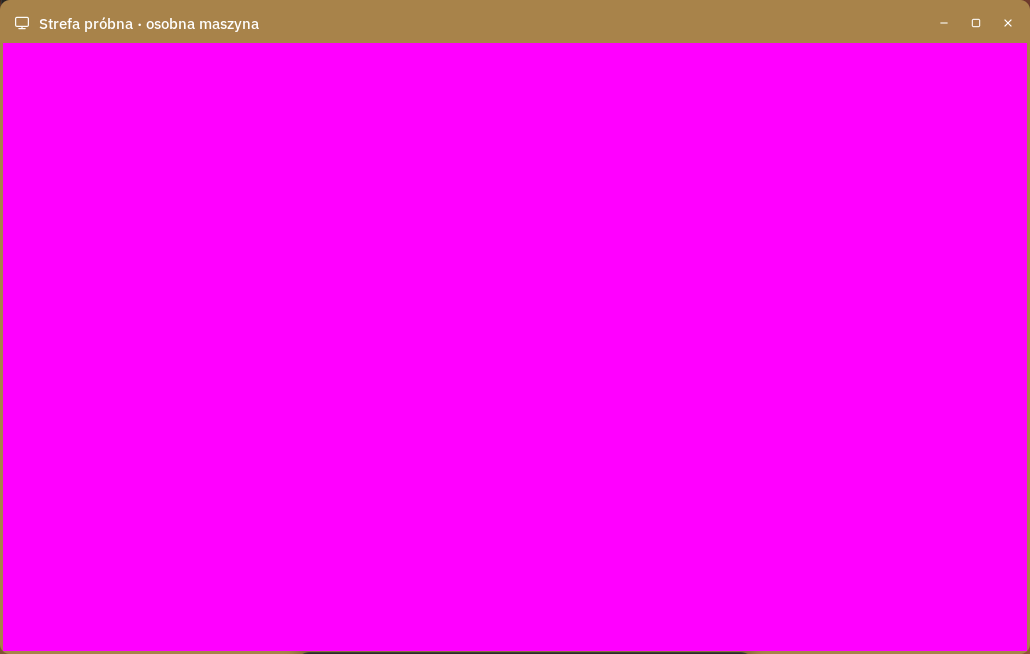
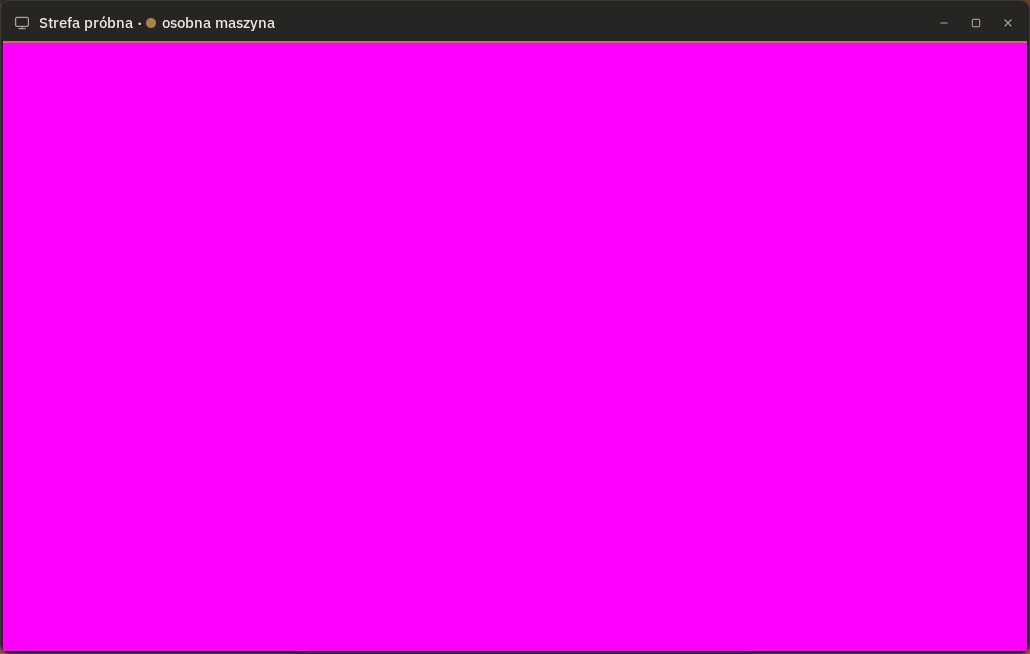
0.10.7 step 4: zone window frame without the coloured outline, ADR 0048 (#174)
Plan 0.10.7 step 4 (the owner's D1: sketch A "dot and line"; frame references approved on before/after images).

- The frame ekran draws around a zone's window looks like a K1 window: the theme's background (also the 3 px
  outline: grips and the VMM's sizes unchanged), a hairline, the title in the colours of text (muted without
  focus), buttons as in K1 windows.
- The zone's colour only in a 10 px dot before the session's name and a 2 px line under the bar; one-off
  sessions: "· zapomina". Still drawn outside the zone's rectangle and before it (T5).
- ADR 0048; corrections in ADR 0020 p. 3 and ADR 0042; RYZYKA R80, R50; WYGLAD, ekran.md, strefa.md.
- test-strefa checks the window background around the picture and the coloured line; ramka-strefy references
  accepted by the owner. Plan: step 3 done (PR #173), step 4 findings.

Local: build, sprawdz-czytelnosc, test-m1 12/12, test-strefa. CI run 224 on the PR: build and all tests passed.

Claude-Session: https://claude.ai/code/session_01TkGeGWi1o2MRyp4Q44ktcX

Changed region(s): [[0.0, 0.0, 1.0, 1.0], [0.0, 0.9786, 0.3107, 1.0]]

diff --git a/src/nadzorca/strefy_ust.c b/src/nadzorca/strefy_ust.c
@@ -1,7 +1,7 @@
 /* K1 nadzorca — the sessions of the zones as the user set them (0.10.0 step 5): whether each one remembers (STALA) and
  * its name. nadzorca keeps them — it starts the zones, so it alone decides whether a zone's VMM gets its disk — in
  * skarbiec (owner K1_WL_SYSTEM, object K1_OB_STREFY, format: sesje.h) and tells gui (the names in its menus), ekran (the
- * title on the zone's bar, "zapomina po zamknięciu") and Ustawienia (Przeglądarka) whenever they change, and each of
+ * title on the zone's bar, "zapomina") and Ustawienia (Przeglądarka) whenever they change, and each of
  * them again after it started: STREFA_NAZWA for every session, then STREFY_STAN. Ustawienia asks for a change
  * (STREFA_TRWALOSC, STREFA_NAZWA — from the zone's next start) or for "Wyczyść dane sesji" (STREFA_WYCZYSC: skarbiec
  * deletes the pieces of its disk, never while it runs). A zone remembers only when the vault is on a disk (K1-DANE):

diff --git a/docs/RYZYKA.md b/docs/RYZYKA.md
@@ -55,7 +55,7 @@ Stan na wersję 0.8.7 (z krokami planu 0.9.0). Kolumna „Plan” mówi numerem 
 | R47 | ~~Mało miejsca na pliki na pendrivie~~ — **od 0.8.0 (krok 5, ADR 0033) pusta K1-DANE rośnie przy pierwszym starcie do końca pendrive'a**; zostaje tylko pendrive równy obrazowi albo zapisany starszą wersją z danymi (64 MiB). (0.8.0, ADR 0029): K1-DANE na pendrivie miała 64 MiB, a dziennik skarbca dzieli ją na dwa obszary — na pliki zostaje ok. 30 MiB; pełny skarbiec odmawia zapisu („Brak miejsca na nośniku”). | Ś | limit 16 MiB na plik, komunikat w Plikach, dane się nie psują (zapis kawałków przed wpisem) | pendrive z danymi: kopia danych przy aktualizacji (później) |
 | R48 | **Przejęte gui zna nazwy plików z folderu Pulpit** (0.8.0): pulpit musi je narysować; przejęte gui może też przenieść je do Kosza albo opróżnić Kosz, a od 0.8.2 (krok 6, przeciąganie) przenieść plik Pulpitu do folderu Pulpitu. | N | tabela praw w skarbcu: gui nie widzi innych folderów ani treści, nie zmienia nazw i nie usuwa na zawsze pojedynczych plików; Kosz opróżnia tylko z menu (gest) | rozważyć „Opróżnij Kosz” tylko z Plików, gdy pojawią się strefy (0.10) |
 | R49 | **Obce dane w nazwie pliku** (0.8.0): nazwa przychodzi od klienta (później z pendrive'a i stref) i jest rysowana przez Pliki i pulpit. | N | skarbiec przyjmuje tylko poprawny UTF-8 bez znaków sterujących, odwracania kierunku tekstu i znaków zakazanych w Windows; odbiorcy sprawdzają listę jeszcze raz (fuzzing); nazwy nigdy w logu | — |
-| R50 | **Podrobione okno wyboru pliku** (0.8.0, ADR 0030): aplikacja może narysować w swoim oknie coś, co wygląda jak „Wybór pliku”. | N | podróbka niczego nie daje: dostęp do pliku daje tylko skarbiec, po odpowiedzi prawdziwego okna (właściciel kanału od nadzorcy) na prośbę, która czeka; aplikacja nie widzi listy plików | 0.10.0: okno strefy zawsze ma ramkę K1 w kolorze strefy (R80) — strona w strefie nie podszyje się pod okno wyboru; aplikacje natywne — tylko nasz kod (R26) |
+| R50 | **Podrobione okno wyboru pliku** (0.8.0, ADR 0030): aplikacja może narysować w swoim oknie coś, co wygląda jak „Wybór pliku”. | N | podróbka niczego nie daje: dostęp do pliku daje tylko skarbiec, po odpowiedzi prawdziwego okna (właściciel kanału od nadzorcy) na prośbę, która czeka; aplikacja nie widzi listy plików | 0.10.0: okno strefy zawsze ma ramkę K1 z napisem „osobna maszyna” i kolorem strefy (od 0.10.7 kropka i linia, ADR 0048; R80) — strona w strefie nie podszyje się pod okno wyboru; aplikacje natywne — tylko nasz kod (R26) |
 | R51 | **Dostęp „po geście” od przejętych Plików albo pulpitu** (0.8.0, ADR 0030): przejęte Pliki mogą dać aplikacji dowolny plik, przejęty pulpit — plik z folderu Pulpit. | N | Pliki i tak widzą wszystkie pliki; aplikacja dostaje tylko typ, który otwiera (`K1_OTWIERANIE`), i tylko do swojego zamknięcia; pulpit — tylko folder Pulpit | — |
 | R52 | **Złośliwy pendrive** (0.8.0 krok 3, ADR 0031): spreparowany system plików FAT (pętle w łańcuchach, złe pola, nazwy ze znakami sterującymi) ma przejąć proces, który go czyta, albo zawiesić Pliki. | Ś | czyta go tylko `czytnik`: UID 106, seccomp (`pread64`, `memfd_create`), bez ścieżek, pendrive tylko do odczytu, nic więcej; każda liczba sprawdzana, łańcuchy ograniczone, nazwy zamieniane na poprawne nazwy K1 (od 0.8.2 według tych samych zasad nazw co w skarbcu, R59); duży folder w listach po 1024 (najwyżej 16 384 elementy w Plikach, pętla w folderze ograniczona do 65 536 wpisów); Pliki sprawdzają listę wpis po wpisie, treść sprawdza skarbiec (typ z treści); test na obrazach uszkodzonych, fuzzing `fuzz_fat` i `fuzz_pendrive`. Nazwy zarezerwowane w Windows („CON”, „NUL”, „COM1”…) przechodzą — ważne dopiero, gdy K1 będzie zapisywać na pendrive (0.11). | dłuższy fuzzing w 0.13; exFAT — przy jego dodaniu ten sam model |
 | R53 | **Złośliwy obraz** (0.8.0 krok 4, ADR 0032): spreparowany PNG, JPEG, od 0.8.2 także GIF, BMP albo WebP (z pendrive'a, później z internetu) ma przejąć proces, który go dekoduje — albo zająć całą pamięć komputera. | Ś | dekoduje go tylko `dekoder`: jeden obraz na proces, UID 107, seccomp (`memfd_create`), bez ścieżek, bez urządzeń, `RLIMIT_AS`/`CPU`/`FSIZE` i cgroup; dekodowanie w Wuffs (kod z dowodem braku wyjścia poza tablice przy kompilacji); rozmiar i pamięć (plik + piksele + obszar roboczy ≤ 1 GiB, 0.8.2) sprawdzone przed przydziałem, a na komputerze z mniej niż 8 GB klatka najwyżej 1/6 RAM; plik przychodzi kawałkami o zapowiedzianej wielkości; Pliki i ekran sprawdzają wynik (rozmiar, pieczęcie); test na obrazach uszkodzonych, fuzzing `fuzz_dekoder` (korpus z każdym formatem) | dłuższy fuzzing w 0.13; nowe formaty (PDF) — ten sam model |
@@ -85,7 +85,7 @@ Stan na wersję 0.8.7 (z krokami planu 0.9.0). Kolumna „Plan” mówi numerem 
 | R77 | **VMM w C rozbiera wszystko, co przychodzi od gościa strefy** (0.10.0, ADR 0042 T1, T2): kolejki virtio, rejestry, polecenia grafiki, pakiety vsock — błąd w VMM to wyjście ze strefy do procesu VMM. | W | klatka `KLATKA_STREFA` (własny UID, 0 capabilities, Landlock bez ścieżek, seccomp: `ioctl` tylko typu KVM, `clone` tylko wątków, bez `open` i `socket`); każde pole od gościa sprawdzane, zły deskryptor kończy tylko tę maszynę; testy na hoście z ASan/UBSan (`test_virtio`, `test_strefa_start`), fuzzing (`fuzz_virtq`), złośliwy gość w teście w QEMU (4 tryby); małe pliki, tylko potrzebne urządzenia (bez PCI, sieci, dźwięku, USB) | 0.13: audyt, fuzzing urządzeń (gpu, vsock, input) |
 | R78 | **KVM w jądrze K1** (0.10.0): błąd w KVM pozwoliłby gościowi strefy wyjść do jądra K1 (najgorszy przypadek: cały K1). | W | `/dev/kvm` tylko root (0600), otwiera go tylko nadzorca dla VMM; KVM bez SMM, Hyper-V, Xen, SEV, TDX (mniej kodu); poprawki z jądrem LTS; x2APIC w gościu (mniej emulacji) | aktualizacje jądra; 0.13: audyt |
 | R79 | **Ataki procesora z wnętrza strefy** (VMSCAPE i podobne: przewidywanie skoków, pamięć podręczna): gość może próbować wyczytać dane VMM albo K1. | Ś | `MITIGATION_VMSCAPE` i pozostałe łagodzenia jądra K1 włączone; VMM nie trzyma sekretów (hasła, klucze są w innych usługach) | aktualizacje mikrokodu (firmware) i jądra |
-| R80 | **Okno strefy udające K1** (0.10.0; R26 dla stref): strefa rysuje, co chce, w swoim prostokącie — także coś, co wygląda jak okno K1. | Ś | ramkę — pasek tytułu w kolorze strefy z napisem „osobna maszyna”, minimalizuj i zamknij, obwódkę (0.10.0 krok 3, szkic A) — rysuje ekran K1 na zewnątrz obrazu strefy, strefa jej nie zasłoni ani nie narysuje; Firefox w strefie nie rysuje własnych przycisków okna; okna K1 nie mają takiej ramki; klawisze trafiają do strefy tylko przy fokusie | 0.11: pliki i schowek tylko przez K1 (ADR 0027); od 0.10.5 krok 4 także chwyty brzegów, przycisk „maksymalizuj” i zarys zmiany rozmiaru rysuje tylko ekran, rozmiar zmienia tylko gest na ramce K1 (strefa nie ma komunikatu rozmiaru ani położenia, zamiana powierzchni tylko w rozmiarze, o który prosił ekran — test w systemie `t_okna_rozmiar`), pełny ekran przeglądarki = okno strefy (T14) |
+| R80 | **Okno strefy udające K1** (0.10.0; R26 dla stref): strefa rysuje, co chce, w swoim prostokącie — także coś, co wygląda jak okno K1. | Ś | ramkę — pasek tytułu z ikoną strefy i napisem „osobna maszyna”, minimalizuj i zamknij, obwódkę (0.10.0 krok 3, szkic A; od 0.10.7, ADR 0048: w kolorach okna K1, kolor strefy w kropce przed nazwą sesji i linii pod paskiem) — rysuje ekran K1 na zewnątrz obrazu strefy, strefa jej nie zasłoni ani nie narysuje; Firefox w strefie nie rysuje własnych przycisków okna; okna K1 nie mają takiej ramki; klawisze trafiają do strefy tylko przy fokusie | 0.11: pliki i schowek tylko przez K1 (ADR 0027); od 0.10.5 krok 4 także chwyty brzegów, przycisk „maksymalizuj” i zarys zmiany rozmiaru rysuje tylko ekran, rozmiar zmienia tylko gest na ramce K1 (strefa nie ma komunikatu rozmiaru ani położenia, zamiana powierzchni tylko w rozmiarze, o który prosił ekran — test w systemie `t_okna_rozmiar`), pełny ekran przeglądarki = okno strefy (T14) |
 | R81 | **Obraz przeglądarki w rdzeniu** (0.10.0 krok 2, ADR 0043): k1.efi rośnie z 17,6 do 121 MiB w miejscu A/B 128 MiB; rdzeń jest w pamięci — +104 MB RAM na stałe. Większy Firefox albo nowe pakiety mogą się nie zmieścić. | Ś | xz z filtrem x86, usunięte dokumentacja i tłumaczenia poza polskim, bez demonów i powłoki; budowa pokazuje rozmiar; Instalator odmawia, gdy k1.efi się nie mieści (S25) | obrazy stref poza rdzeniem (podpisane, dm-verity) — 0.10.9 krok 4, z ADR (docs/PLAN-0.10.9.txt, T16) |
 | R82 | **Firefox bez bieżących poprawek** (S19): Firefox ESR dostaje poprawki bezpieczeństwa co ok. 4 tygodnie, w K1 — tylko z nowym wydaniem. | W | strefa: błąd w przeglądarce zostaje w mikro-maszynie (sesja Prywatna nic nie pamięta; sesja, która pamięta — od 0.10.0 krok 5 — trzyma profil przeglądarki: „Wyczyść dane sesji” w Ustawieniach usuwa go), sandbox Firefoksa na przestrzeniach nazw jądra strefy; `scripts/odswiez-strefe.py` + wersja PATCH | stałe odświeżanie przy każdej wersji; plan 0.10.5 (automatyczne wydania) |
 | R83 | **DNS bez szyfrowania** (ADR 0043 T9): router i sieć widzą nazwy otwieranych stron (jak w większości systemów); odpowiedź DNS może skłamać. | Ś | odpowiedź przyjmowana tylko z identyfikatorem i pytaniem naszego zapytania; adres musi być publiczny albo routerem (D3); TLS przeglądarki i tak sprawdza certyfikat strony | DNS szyfrowany — „Później” |

diff --git a/docs/adr/0048-ramka-okna-strefy-bez-obwodki.md b/docs/adr/0048-ramka-okna-strefy-bez-obwodki.md
@@ -1,0 +1,34 @@
+# 0048. Ramka okna strefy bez kolorowej obwódki
+
+- Status: Przyjęty; wdrożony w 0.10.7 (krok 4)
+- Data: 2026-11-19
+- Dotyczy: ADR 0020 p. 3 (zaufana ramka — „obwódka w kolorze strefy”), ADR 0042 („Zaufana ramka”); plan
+  `docs/PLAN-0.10.7.txt`: krok 4, D1, T5; RYZYKA R26, R50, R80
+
+## Kontekst
+Od 0.10.0 (krok 3, szkic A) ekran K1 rysował wokół okna strefy pasek tytułu i obwódkę 3 px — całe w kolorze strefy
+(przeglądarka: kolor sesji Ogólna / Bank / Prywatna). Właściciel (2026-11-17, przegląd wyglądu 0.10.7): kolor obejmujący
+całe okno „psuje estetykę”; okno przeglądarki ma wyglądać jak okna K1, a kolor sesji ma zostać, ale dyskretnie.
+
+## Decyzja
+Właściciel wybrał szkic A „Kropka i linia” (D1, 2026-11-18). Ekran (`src/ekran/strefy.c`) rysuje:
+- ramkę jak okna K1: tło okna motywu, włoskowaty obrys, cień ekranu; obwódka zostaje 3 px (chwyty brzegów, rozmiary
+  liczone przez VMM i gościa bez zmian), ale w kolorze tła okna;
+- pasek tytułu `K1_STREFA_TYTUL` (40 px, bez zmian — T5): ikona strefy i napis w kolorach tekstu (bez fokusu wyciszone,
+  jak w oknach K1), przyciski minimalizuj / maksymalizuj / zamknij jak w oknach K1;
+- kolor strefy w jednym miejscu: kropka 10 px przed nazwą sesji (bez sesji — przed „osobna maszyna”) i linia 2 px pod
+  paskiem, między paskiem a obrazem strefy; bez fokusu przygaszony jak dotąd (zmieszany z tłem);
+- napis „<tytuł> · ● <sesja> · osobna maszyna”, sesja jednorazowa: „· zapomina” (dawniej „· zapomina po zamknięciu”
+  i jasny pasek w kolorowej obwódce).
+Ekran startu przeglądarki (odcinek w kolorze sesji, 0.10.2) — bez zmian.
+
+## Dlaczego okno strefy dalej różni się od okna K1 (T5)
+Zasada ADR 0020 p. 3 zostaje: ramkę rysuje ekran, **na zewnątrz** prostokąta strefy i przed nim; strefa ma tylko swój
+prostokąt, więc nie zasłoni ani nie podrobi ramki (test negatywny w `test-strefa.sh`). Okno strefy rozpoznaje się po:
+napisie „osobna maszyna” (oznaczenie bezpieczeństwa, nie opis — zasada Z2 planu go nie usuwa), ikonie strefy, kropce
+i linii w kolorze sesji — żadne okno K1 ich nie ma. Zmienia się tylko to, ile koloru jest na ramce, nie kto ją rysuje.
+
+## Skutki
+- ADR 0020 p. 3 i ADR 0042 („Zaufana ramka”): dopisek `[korekta: ADR 0048]`.
+- RYZYKA R80, R50: opis ramki. Wzorce `ramka-strefy-jasny`, `-ciemny` — nowe obrazy po „OK” właściciela.
+- `test-strefa.sh` sprawdza tło okna wokół obrazu i linię w kolorze strefy pod paskiem (dawniej obwódkę w kolorze).

diff --git a/docs/komponenty/ekran.md b/docs/komponenty/ekran.md
@@ -106,8 +106,10 @@ wyłączony, klienci nic nie wysyłają. Pełny kanał klienta testowego przy od
 
 **Rola `STREFA` (0.10.0, ADR 0042; `strefy.c`).** VMM strefy jest klientem z jednym oknem (bez paneli, ustawień,
 tapety). Ekran rysuje mu **ramkę** (0.10.0 krok 3, zmiana D1: szkic A — `docs/WYGLAD.md`): **pasek tytułu** 40 px
-(`K1_STREFA_TYTUL`, `k1_okno.h`) nad obrazem strefy, w kolorze strefy z `K1_STREFY` — ikona, „<tytuł> · <sesja> ·
-osobna maszyna”, minimalizuj, zamknij — i obwódkę 3 px wokół paska i obrazu. Cała ramka leży **na zewnątrz** prostokąta
+(`K1_STREFA_TYTUL`, `k1_okno.h`) nad obrazem strefy — ikona, „<tytuł> · ● <sesja> · osobna maszyna”, minimalizuj,
+maksymalizuj, zamknij — i obwódkę 3 px wokół paska i obrazu. Od 0.10.7 (krok 4, ADR 0048, D1: szkic A) ramka jest
+w kolorach okna K1 (tło, obrys, napis w kolorze tekstu), a kolor strefy z `K1_STREFY` jest tylko w kropce przed nazwą
+sesji i w linii 2 px pod paskiem; do 0.10.5 pasek i obwódka były całe w kolorze strefy. Cała ramka leży **na zewnątrz** prostokąta
 strefy i jest rysowana przed jej obrazem, więc strefa nie może jej zasłonić ani narysować (R26, R80); cień obejmuje okno
 z ramką. Wskaźnik na ramce nie trafia do strefy: chwycenie paska przesuwa okno (pasek nie wyżej niż górny pasek K1),
 minimalizuj chowa okno, zamknij wysyła VMM `ZAMKNIJ`; kursor nad przyciskiem go podświetla. VMM odejmuje wysokość paska

diff --git a/docs/WYGLAD.md b/docs/WYGLAD.md
@@ -215,6 +215,13 @@ wybrany **A**. Znaczek i plakietka B2 zniknęły.
   zmieszany w 45 % z tłem motywu.
 - **Strefa jednorazowa:** jasny pasek — `pole` z 14 % koloru strefy — w obwódce w kolorze strefy; ikona, napis i
   przyciski w kolorze strefy przyciemnionym w stronę tekstu.
+- **Zmiana 0.10.7 (krok 4, ADR 0048, decyzja właściciela D1 z 2026-11-18: szkic A „Kropka i linia”).** Kolor na całej
+  ramce „psuł estetykę”. Od 0.10.7 ramka jak okna K1: tło okna motywu (także obwódka 3 px), włoskowaty obrys (`tekst`
+  26/255), cień ekranu; ikona strefy (`tekst2`) i napis „<tytuł> · ● <sesja> · osobna maszyna” w kolorze `tekst` (bez
+  fokusu `tekst3`); kolor strefy tylko w **kropce 10 px** przed nazwą sesji (bez sesji — przed „osobna maszyna”) i **linii
+  2 px** pod paskiem, tuż nad obrazem strefy; bez fokusu przygaszony (115/255 z tłem). Przyciski jak w oknach K1 (`tekst2`,
+  najechanie — pole `najechanie`). Strefa jednorazowa: dopisek „· zapomina” zamiast jasnego paska. Opis wyżej (pasek
+  w kolorze strefy, obwódka, jasny pasek) — historia do 0.10.5.
 - **Przeglądarka bez własnych przycisków okna** (S28): Firefox w strefie nie rysuje minimalizuj / powiększ / zamknij
   (ustawienie GTK w obrazie strefy) — robi to tylko pasek K1.
 - **Start (S1):** okno w ramce od razu; w środku tło motywu, ikona strefy 40 px (`tekst3`), „Uruchamiam: <tytuł> ·

diff --git a/docs/adr/0042-strefy-w-k1.md b/docs/adr/0042-strefy-w-k1.md
@@ -77,7 +77,8 @@ zasłonić ani podrobić) i mały znaczek z ikoną strefy na lewym górnym rogu,
 rozwija plakietkę: nazwa strefy · „osobna maszyna” (jednorazowa: „· zapomina po zamknięciu”), minimalizuj, zamknij;
 chwycenie znaczka przesuwa okno. Wskaźnik na ramce, znaczku i plakietce nigdy nie trafia do strefy. „Zamknij” → VMM
 mówi gościowi „zamknij” (vsock), gość się zamyka; po 10 s VMM wyłącza maszynę sam (0.10.0 krok 5: 40 s, przeglądarka ma 20 s na zapisanie danych sesji). Strefa jednorazowa — jasny znaczek
-z obwódką; okno bez fokusu — kolor ramki przygaszony. Przed pierwszym obrazem gościa w oknie „Uruchamiam: …” (D1: S1).
+z obwódką; okno bez fokusu — kolor ramki przygaszony. Przed pierwszym obrazem gościa w oknie „Uruchamiam: …” (D1: S1). [korekta: ADR 0048 — od
+0.10.7 ramka jak okna K1 (tło okna, obrys), kolor strefy tylko w kropce przed nazwą sesji i linii 2 px pod paskiem]
 
 **T10 — testy w emulacji (decyzja właściciela D4).** QEMU TCG z `-cpu max` udaje procesor AMD z SVM i zagnieżdżonym
 stronicowaniem (NPT) — jądro K1 z `KVM_AMD` uruchamia w nim strefę. Ustalenia (POTWIERDZONE próbami 2026-11-14):

diff --git a/docs/adr/README.md b/docs/adr/README.md
@@ -75,3 +75,4 @@ Krótko, dlaczego nie.
 | [0045](0045-opis-ekranu-dla-testow.md) | Opis ekranu dla testów (0.10.2) — okna i elementy po nazwach, tylko dla roli TEST z obrazu testowego, bez treści użytkownika | Przyjęty, wdrożony (0.10.2) |
 | [0046](0046-aktualizacje-przez-siec.md) | Aktualizacje przez sieć (0.10.5): ogłoszenie wydania i paczka podpisane kluczem K1, poczekalnia za FAT-em K1-EFI dysku, strefa pobierania z HTTPS, „Wróć do poprzedniej wersji” | Przyjęty, wdrożony (0.10.5, kroki 2a i 2b) |
 | [0047](0047-robot-aktualizacji.md) | Robot aktualizacji (0.10.5): codzienne wydania PATCH z poprawionym jądrem i pakietami przeglądarki, tylko numery i sumy, testy przez workflow_dispatch, porównanie konfiguracji przy nowej linii, tryb próbny do 0.10.5 | Przyjęty, wdrożony (0.10.5; pełny tryb od wydania) |
+| [0048](0048-ramka-okna-strefy-bez-obwodki.md) | Ramka okna strefy bez kolorowej obwódki (0.10.7): ramka jak okna K1, kolor sesji w kropce przed jej nazwą i linii pod paskiem; ramkę dalej rysuje ekran poza obrazem strefy | Przyjęty, wdrożony (0.10.7, krok 4) |

diff --git a/docs/komponenty/strefa.md b/docs/komponenty/strefa.md
@@ -107,7 +107,7 @@ start” (przeglądarka: jej pierwsze okno — kompozytor pokazuje swoje tło ki
 bez „etap start” (strefa próbna) — do swojego pierwszego obrazu; najwyżej 5 min, potem obraz gościa. Obraz gościa — zmienione
 prostokąty kopiowane do wolnej połówki powierzchni (nieprzezroczyste). Klawisze i wskaźnik od ekranu (tylko przy fokusie)
 → urządzenia wejścia; utrata fokusu puszcza wszystko. Przewijanie (`PRZEWIN`, krok 4) przychodzi do okna pod kursorem,
-także bez fokusu: VMM ustawia najpierw położenie wskaźnika (gość przewija to, co jest pod nim), potem kółko. Ramkę — pasek tytułu nad obrazem i obwódkę (krok 3, szkic A) —
+także bez fokusu: VMM ustawia najpierw położenie wskaźnika (gość przewija to, co jest pod nim), potem kółko. Ramkę — pasek tytułu nad obrazem i obwódkę (krok 3, szkic A; od 0.10.7 w kolorach okna K1, kolor strefy w kropce i linii pod paskiem — ADR 0048) —
 rysuje ekran (`docs/komponenty/ekran.md`); wysokość obrazu jest o pasek (`K1_STREFA_TYTUL`) mniejsza.
 
 ## Przeglądarka (0.10.0 krok 2, ADR 0043)

diff --git a/docs/adr/0020-strefy-mikro-maszyny-na-aplikacje.md b/docs/adr/0020-strefy-mikro-maszyny-na-aplikacje.md
@@ -34,7 +34,8 @@ gościa = tylko ta maszyna.
 3. **Zaufana ramka rysowana przez ekran K1** (nie przez aplikację): każde okno strefy ma obwódkę w
    kolorze strefy i etykietę (nazwa aplikacji · „osobna maszyna”); inny odcień przy szybkiej
    grafice, inny przy maszynie jednorazowej. Aplikacja nie może narysować ramki K1 ani udawać okna
-   systemu (domyka RYZYKA R26).
+   systemu (domyka RYZYKA R26). [korekta: ADR 0048 — od 0.10.7 ramka w kolorach okna K1, kolor strefy tylko
+   w kropce przed nazwą sesji i linii pod paskiem tytułu]
 4. **Wydajność bez oddawania niezależności:** procesor przez wirtualizację sprzętową (strata ~2–5 %);
    wspólny, niezmienny obraz bazowy w pamięci tylko raz (tylko do odczytu); oddawanie nieużywanej
    pamięci (balon / free page reporting); start z zamrożonego stanu (snapshot) i — dla
